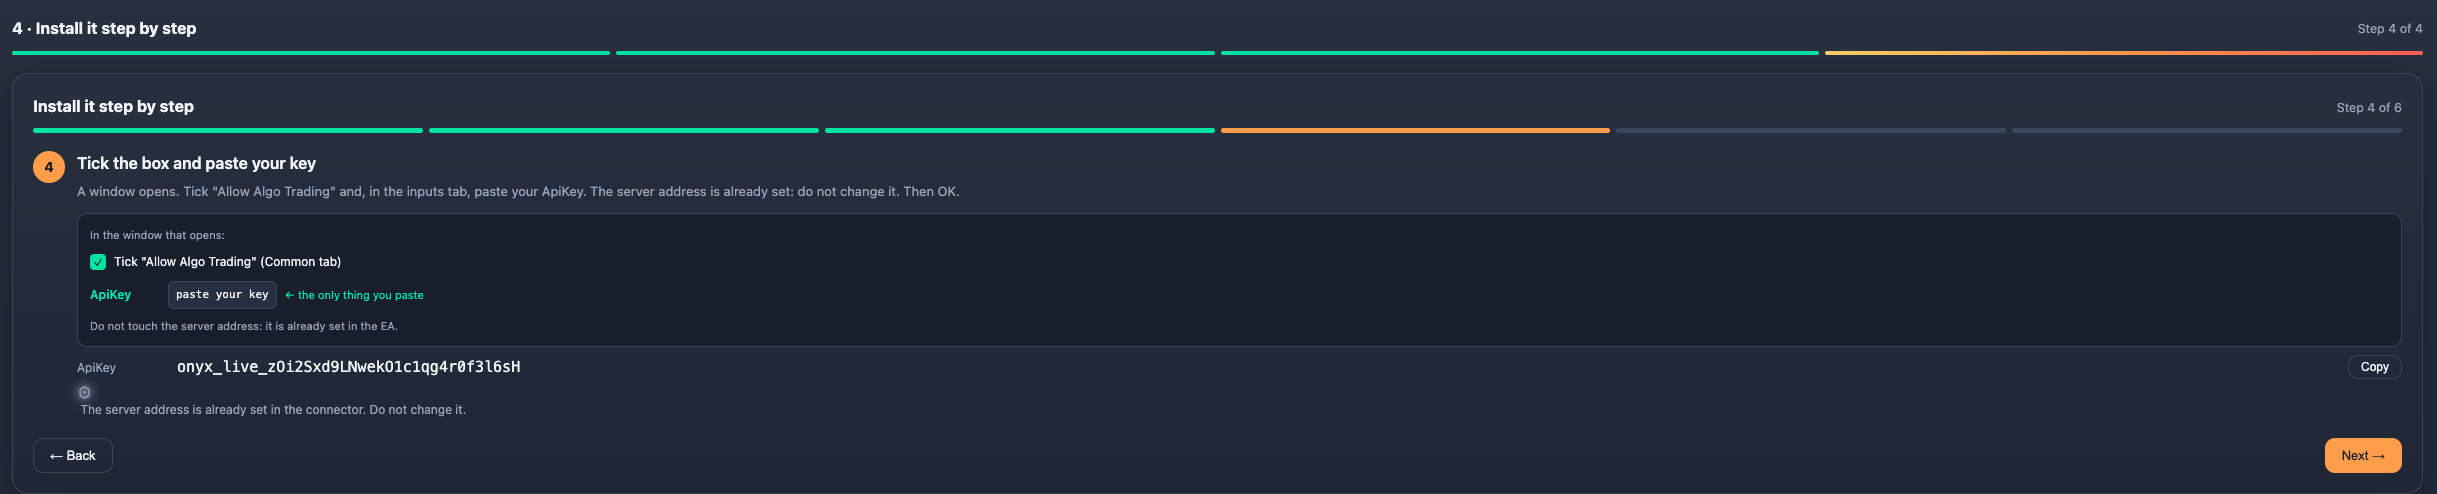
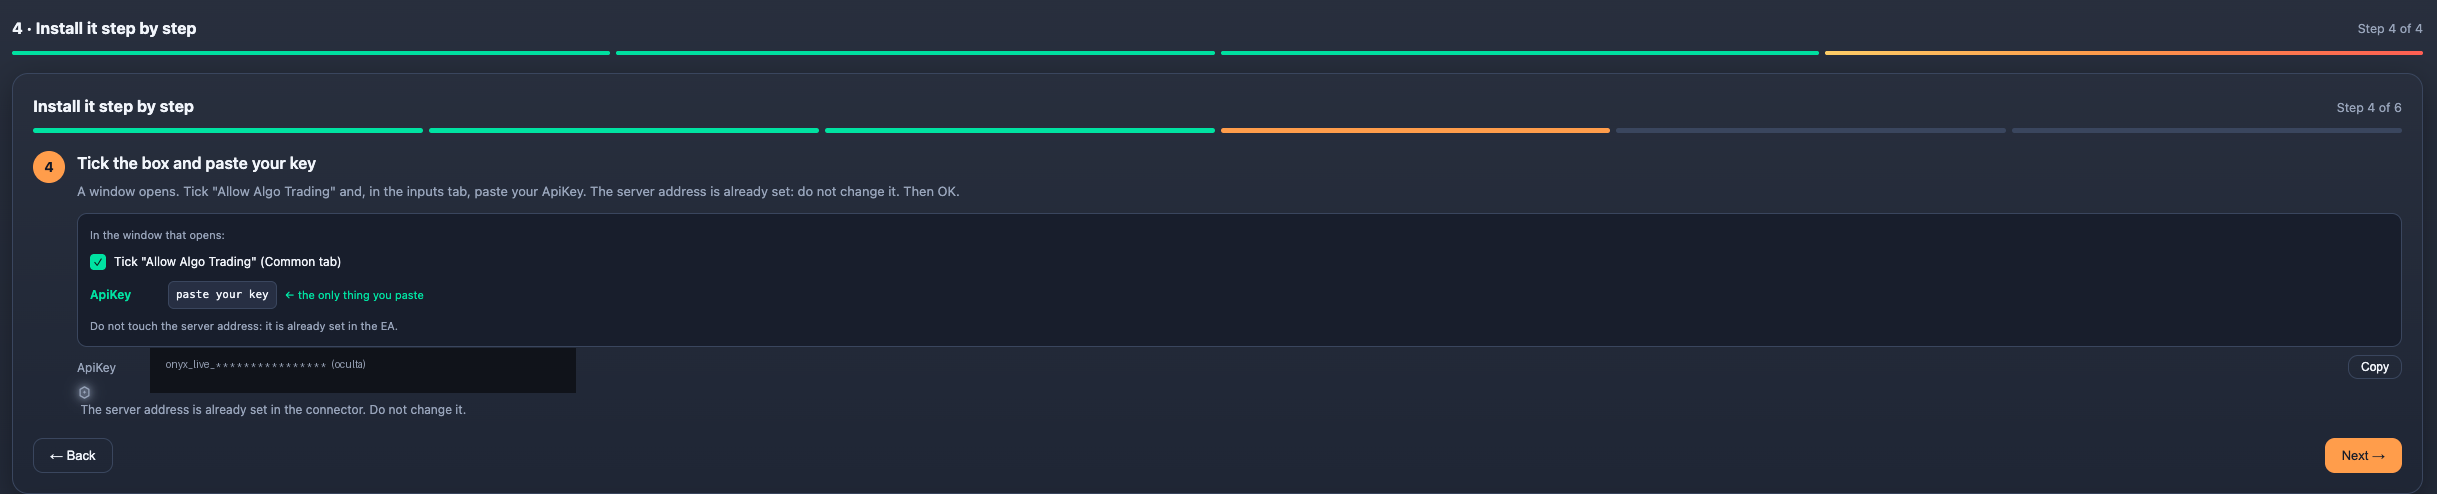
ad

Changed region(s): [[0.0624, 0.6984, 0.2495, 0.8198]]

diff --git a/app/como-usar/page.tsx b/app/como-usar/page.tsx
@@ -61,35 +61,35 @@ const CATS: Cat[] = [
           { es: 'Elige tu plataforma', en: 'Pick your platform', img: 'guia-img/conectar-1.png',
             des_es: 'Entra en "Cuentas" y elige dónde operas. Hay dos familias:\n\n• CON conector (instalas un pequeño programa): MetaTrader 5, MetaTrader 4 y cTrader. Esta guía detalla MetaTrader paso a paso (pasos 3 a 8).\n\n• SIN conector, por login del bróker (no instalas nada): MatchTrader, TradeLocker y DXtrade. Haces los pasos 1 y 2 y saltas directo al 8 (verificar).\n\nDa igual si tu cuenta es demo, challenge, fondeada o propia: todas se conectan igual. Elige tu plataforma y pulsa "Siguiente".',
             des_en: 'Open "Accounts" and pick where you trade. There are two families:\n\n• WITH a connector (install a small program): MetaTrader 5, MetaTrader 4 and cTrader. This guide details MetaTrader step by step (steps 3 to 8).\n\n• WITHOUT a connector, via broker login (install nothing): MatchTrader, TradeLocker and DXtrade. You do steps 1 and 2 and jump straight to step 8 (verify).\n\nIt doesn\'t matter if your account is demo, challenge, funded or your own: they all connect the same way. Pick your platform and press "Next".',
-            markers: [{ x: 9, y: 41, n: 1, es: 'Selecciona la plataforma', en: 'Select the platform' }, { x: 95, y: 46, n: 2, es: 'Siguiente', en: 'Next', dir: 'left' }] },
+            markers: [{ x: 9, y: 52, n: 1, es: 'Selecciona la plataforma', en: 'Select the platform' }, { x: 87, y: 84, n: 2, es: 'Siguiente', en: 'Next', dir: 'left' }] },
           { es: 'Crea tu clave', en: 'Create your key', img: 'guia-img/conectar-2.png',
             des_es: 'Ponle un apodo a la cuenta (ej. "FTMO 100K"), elige el tipo (challenge, fondeo, propio o demo) y escribe tu prop firm o bróker. El número de cuenta es opcional: si lo dejas vacío, la clave se ata sola en la primera sincronización.\n\n• MetaTrader / cTrader: al pulsar "Crear clave" se genera una CLAVE (ApiKey) que pegarás más adelante.\n\n• MatchTrader / TradeLocker / DXtrade: aquí eliges tu servidor/bróker y escribes correo y contraseña; no hay clave ni descarga, y pasas directo a verificar (paso 8).',
             des_en: 'Give the account a nickname (e.g. "FTMO 100K"), choose the type (challenge, funded, own or demo) and type your prop firm or broker. The account number is optional: leave it blank and the key binds itself on first sync.\n\n• MetaTrader / cTrader: pressing "Create key" generates a KEY (ApiKey) you\'ll paste later.\n\n• MatchTrader / TradeLocker / DXtrade: here you pick your server/broker and enter email and password; no key, no download, and you jump straight to verify (step 8).',
-            markers: [{ x: 27, y: 42, n: 1, es: 'Apodo de la cuenta', en: 'Account nickname' }, { x: 75, y: 42, n: 2, es: 'Tipo de cuenta', en: 'Account type', dir: 'left' }, { x: 12, y: 63, n: 3, es: 'Crear clave', en: 'Create key' }] },
+            markers: [{ x: 25, y: 30, n: 1, es: 'Apodo de la cuenta', en: 'Account nickname' }, { x: 64, y: 30, n: 2, es: 'Tipo de cuenta', en: 'Account type', dir: 'left' }, { x: 7, y: 82, n: 3, es: 'Crear clave', en: 'Create key' }] },
           { es: 'Descarga el conector (MetaTrader)', en: 'Download the connector (MetaTrader)', img: 'guia-img/conectar-3.png',
             des_es: 'Pulsa "Descargar para MT5" (o MT4 si usas MetaTrader 4). El archivo (.ex5 / .ex4) ya viene compilado y con tu servidor configurado: no tienes que compilar nada. Se guarda en tu carpeta de Descargas.\n\nEn Mac funciona igual: descarga MetaTrader para Mac desde tu bróker y sigue estos mismos pasos. Para que el conector no se detenga al apagar tu computadora, considera un VPS (encendido 24/7).',
             des_en: 'Press "Download for MT5" (or MT4 if you use MetaTrader 4). The file (.ex5 / .ex4) comes already compiled and with your server configured: you compile nothing. It saves to your Downloads folder.\n\nOn Mac it works the same: download MetaTrader for Mac from your broker and follow these same steps. So the connector doesn\'t stop when your computer is off, consider a VPS (on 24/7).',
-            markers: [{ x: 13, y: 45, n: 1, es: 'Descargar para MT5 / MT4', en: 'Download for MT5 / MT4' }] },
+            markers: [{ x: 10, y: 51, n: 1, es: 'Descargar para MT5 / MT4', en: 'Download for MT5 / MT4' }] },
           { es: 'Mételo en la carpeta Experts', en: 'Put it in the Experts folder', img: 'guia-img/conectar-4.png',
             des_es: 'Abre MetaTrader. Arriba: menú Archivo → "Abrir carpeta de datos". Entra en la carpeta MQL5 y luego en Experts (en MT4 es MQL4 → Experts), y pega ahí el archivo Onyx que descargaste.\n\nLuego, en el panel Navegador (izquierda), clic derecho sobre "Asesores Expertos" → "Actualizar": aparecerá "Onyx Connect".',
             des_en: 'Open MetaTrader. Top: File menu → "Open Data Folder". Go into the MQL5 folder, then Experts (on MT4 it\'s MQL4 → Experts), and paste the Onyx file you downloaded there.\n\nThen, in the Navigator panel (left), right-click "Expert Advisors" → "Refresh": "Onyx Connect" will appear.',
-            markers: [{ x: 50, y: 48, n: 1, es: 'Archivo → Abrir carpeta de datos → MQL5 → Experts', en: 'File → Open Data Folder → MQL5 → Experts' }] },
+            markers: [{ x: 13, y: 63, n: 1, es: 'Archivo → Abrir carpeta de datos → MQL5 → Experts', en: 'File → Open Data Folder → MQL5 → Experts' }] },
           { es: 'Arrástralo a un gráfico', en: 'Drag it onto a chart', img: 'guia-img/conectar-5.png',
             des_es: 'En el panel Navegador (izquierda), abre "Asesores Expertos" y arrastra "Onyx Connect" sobre cualquier gráfico abierto. Con un solo gráfico basta.',
             des_en: 'In the Navigator panel (left), open "Expert Advisors" and drag "Onyx Connect" onto any open chart. One chart is enough.',
-            markers: [{ x: 50, y: 50, n: 1, es: 'Navegador → Asesores Expertos → arrastra al gráfico', en: 'Navigator → Expert Advisors → drag to the chart' }] },
+            markers: [{ x: 7, y: 73, n: 1, es: 'Arrastra "Onyx Connect"', en: 'Drag "Onyx Connect"' }, { x: 75, y: 68, n: 2, es: 'Suéltalo en un gráfico', en: 'Drop it on a chart', dir: 'left' }] },
           { es: 'Marca la casilla y pega tu clave', en: 'Tick the box and paste your key', img: 'guia-img/conectar-6.png',
             des_es: 'Al soltarlo se abre una ventana. En la pestaña "Común" marca "Permitir Algo Trading". En la pestaña de parámetros/entradas pega tu ApiKey (la clave del paso 2). La dirección del servidor ya viene puesta en el conector: no la toques. Pulsa "OK".',
             des_en: 'A window opens when you drop it. On the "Common" tab tick "Allow Algo Trading". On the parameters/inputs tab paste your ApiKey (the key from step 2). The server address is already set in the connector: don\'t touch it. Press "OK".',
-            markers: [{ x: 35, y: 40, n: 1, es: 'Permitir Algo Trading', en: 'Allow Algo Trading' }, { x: 50, y: 62, n: 2, es: 'Pega tu ApiKey', en: 'Paste your ApiKey' }] },
+            markers: [{ x: 5, y: 53, n: 1, es: 'Permitir Algo Trading', en: 'Allow Algo Trading' }, { x: 10, y: 59, n: 2, es: 'Pega tu ApiKey', en: 'Paste your ApiKey' }] },
           { es: 'Autoriza la dirección web', en: 'Authorize the web address', img: 'guia-img/conectar-7.png',
             des_es: 'Arriba: menú Herramientas → Opciones → pestaña "Asesores Expertos". Marca "Permitir WebRequest para las siguientes direcciones" y añade esta (escríbela y pulsa Enter):\n\nhttps://www.onyxtradinglive.com\n\nLuego "OK". Sin esto, Onyx no puede comunicarse con tu cuenta.',
             des_en: 'Top: Tools menu → Options → "Expert Advisors" tab. Tick "Allow WebRequest for listed URL" and add this one (type it and press Enter):\n\nhttps://www.onyxtradinglive.com\n\nThen "OK". Without this, Onyx cannot talk to your account.',
-            markers: [{ x: 40, y: 38, n: 1, es: 'Permitir WebRequest', en: 'Allow WebRequest' }, { x: 50, y: 60, n: 2, es: 'Añade la dirección y Enter', en: 'Add the address and Enter' }] },
+            markers: [{ x: 5, y: 59, n: 1, es: 'Permitir WebRequest', en: 'Allow WebRequest' }, { x: 10, y: 66, n: 2, es: 'Añade la dirección y Enter', en: 'Add the address and Enter' }] },
           { es: 'Enciende Algo Trading y verifica', en: 'Turn on Algo Trading and verify', img: 'guia-img/conectar-8.png',
             des_es: 'Pulsa el botón "Algo Trading" (o "AutoTrading") de la barra de arriba: debe quedar en VERDE. Esa es la señal que importa.\n\nNota: en algunas versiones de MT5 NO aparece la carita en el gráfico, o es muy pequeña. No te preocupes por ella. Para confirmar que carga bien, abre la pestaña "Expertos" abajo (o "Diario"): verás un mensaje de que Onyx Connect se inició. La prueba definitiva es Onyx: en unos segundos, en "Estado de tus cuentas" la cuenta pasa de "sin señal" a "Conectado" en verde, con tu balance y operaciones.\n\nSi no conecta: revisa que (1) el botón AutoTrading esté verde, (2) hayas pegado bien la ApiKey, y (3) hayas añadido la dirección web del paso 7 en Herramientas → Opciones → Asesores Expertos.\n\n(Plataformas sin conector —MatchTrader, TradeLocker, DXtrade— llegan aquí directo: la conexión es automática tras guardar el login; solo espera y refresca.)\n\nDesde "Conectar otra cuenta" repites el proceso con todas las que quieras.',
             des_en: 'Press the "Algo Trading" (or "AutoTrading") button in the top toolbar: it must turn GREEN. That\'s the signal that matters.\n\nNote: on some MT5 builds the smiley face does NOT appear on the chart, or is tiny. Don\'t worry about it. To confirm it loaded, open the "Experts" tab at the bottom (or "Journal"): you\'ll see a message that Onyx Connect started. The definitive proof is Onyx itself: in a few seconds, under "Account status" the account goes from "no signal" to green "Connected", with your balance and trades.\n\nIf it won\'t connect: check that (1) the AutoTrading button is green, (2) you pasted the ApiKey correctly, and (3) you added the web address from step 7 under Tools → Options → Expert Advisors.\n\n(No-connector platforms —MatchTrader, TradeLocker, DXtrade— arrive here directly: the connection is automatic after you save the login; just wait and refresh.)\n\nFrom "Connect another account" you repeat this for as many as you want.',
-            markers: [{ x: 50, y: 40, n: 1, es: 'Botón Algo Trading (verde)', en: 'Algo Trading button (green)' }, { x: 50, y: 58, n: 2, es: 'Pasará a "Conectado"', en: 'Will show "Connected"' }] },
+            markers: [{ x: 7, y: 41, n: 1, es: 'Botón Algo Trading (verde)', en: 'Algo Trading button (green)' }, { x: 12, y: 74, n: 2, es: 'Pasará a "Conectado"', en: 'Will show "Connected"' }] },
         ],
       },
       {
